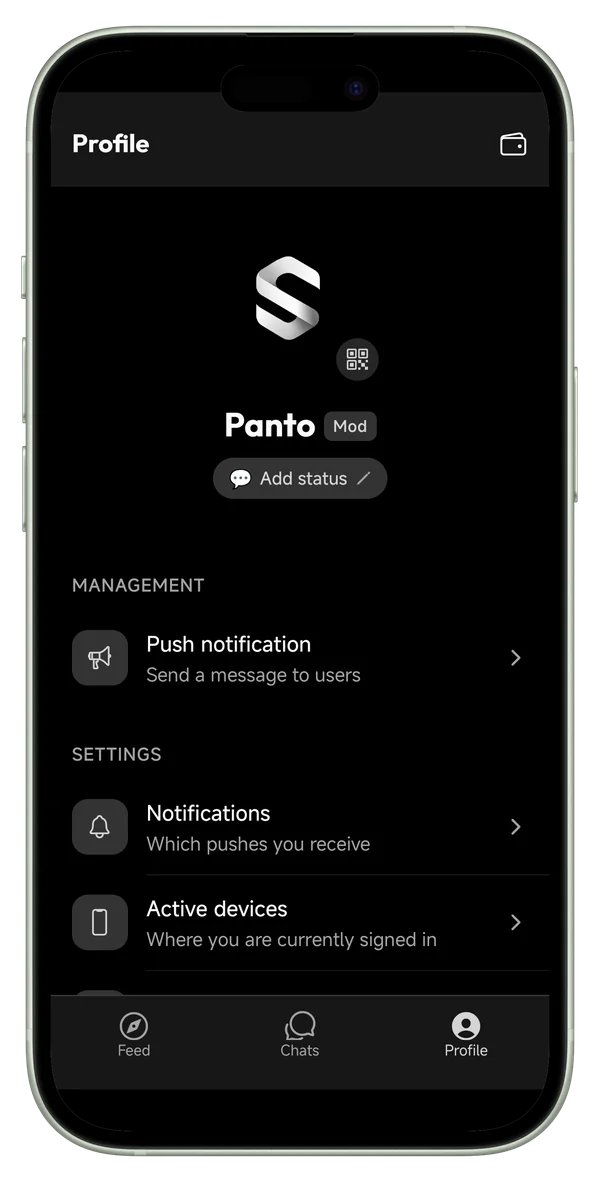
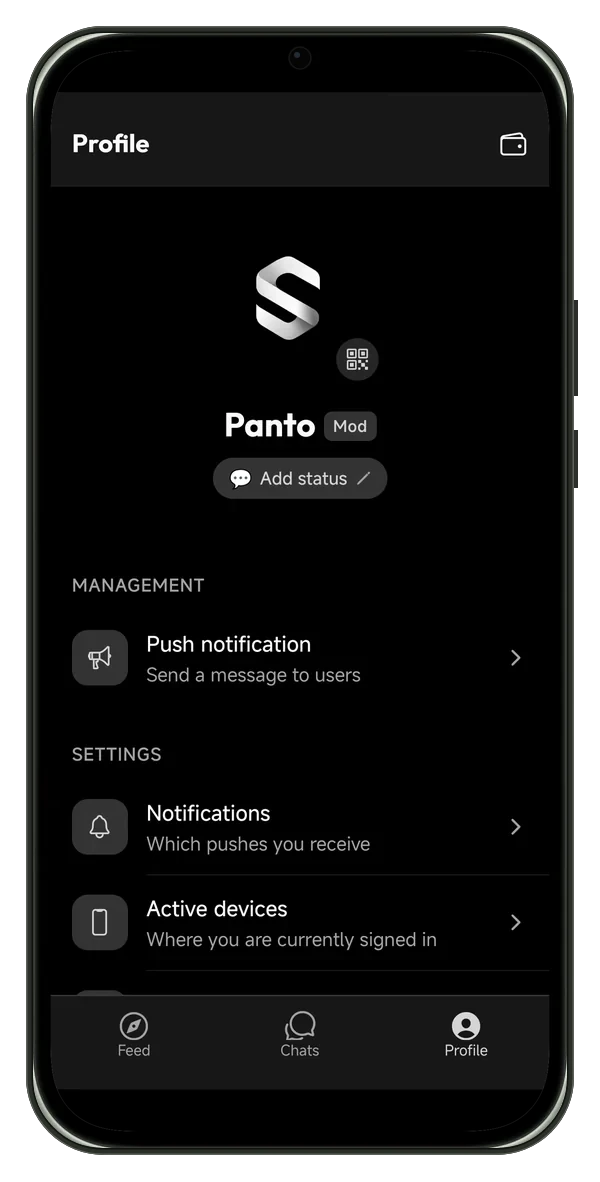
Show the app in an Android frame and drop the school-exam photo
Silvra Messenger is an Android app, but its screenshots sat in an iPhone mock-up (Dynamic Island,
iPhone buttons). scripts/device-frames.mjs keeps every pixel of the captured screen, covers the
island with the status bar's own colour, adds a punch-hole camera and draws a plain graphite
frame with the buttons on the right. The original captures stay in scripts/screens/ as the
script's input.

The "work" photo showed an iPad with a German state school exam and the NRW crest. It is
replaced by dark server racks (Matthieu Beaumont, Unsplash licence), credited in credits.json.

Claude-Session: https://claude.ai/code/session_01CszR7WiEyqqxCi2qwSMqsW

diff --git a/src/assets/photos/README.md b/src/assets/photos/README.md
@@ -5,7 +5,7 @@ Each file here fills one slot on the site, by name. `work.webp` fills the slot `
 
 | Slot        | Where it appears                          | Motif                                                         |
 | ----------- | ----------------------------------------- | ------------------------------------------------------------- |
-| `work`      | Home, "How we work" (portrait, 4:5)       | Calm, dark workspace or code on a screen; monochrome          |
+| `work`      | Home, "Principles" (portrait, 4:5)        | Dark server racks or hardware; no logos, crests or legible text |
 | `europe`    | Home, "Europe" (circle)                   | Europe at night seen from space — the continent's lights      |
 | `messenger` | Messenger page, "Post-quantum" (4:5)      | Hands with a phone at night, black and white                  |
 | `helix`     | Helix page, intro (4:5, icon on top)      | Abstract light structure or fibre optics in amber/gold        |
